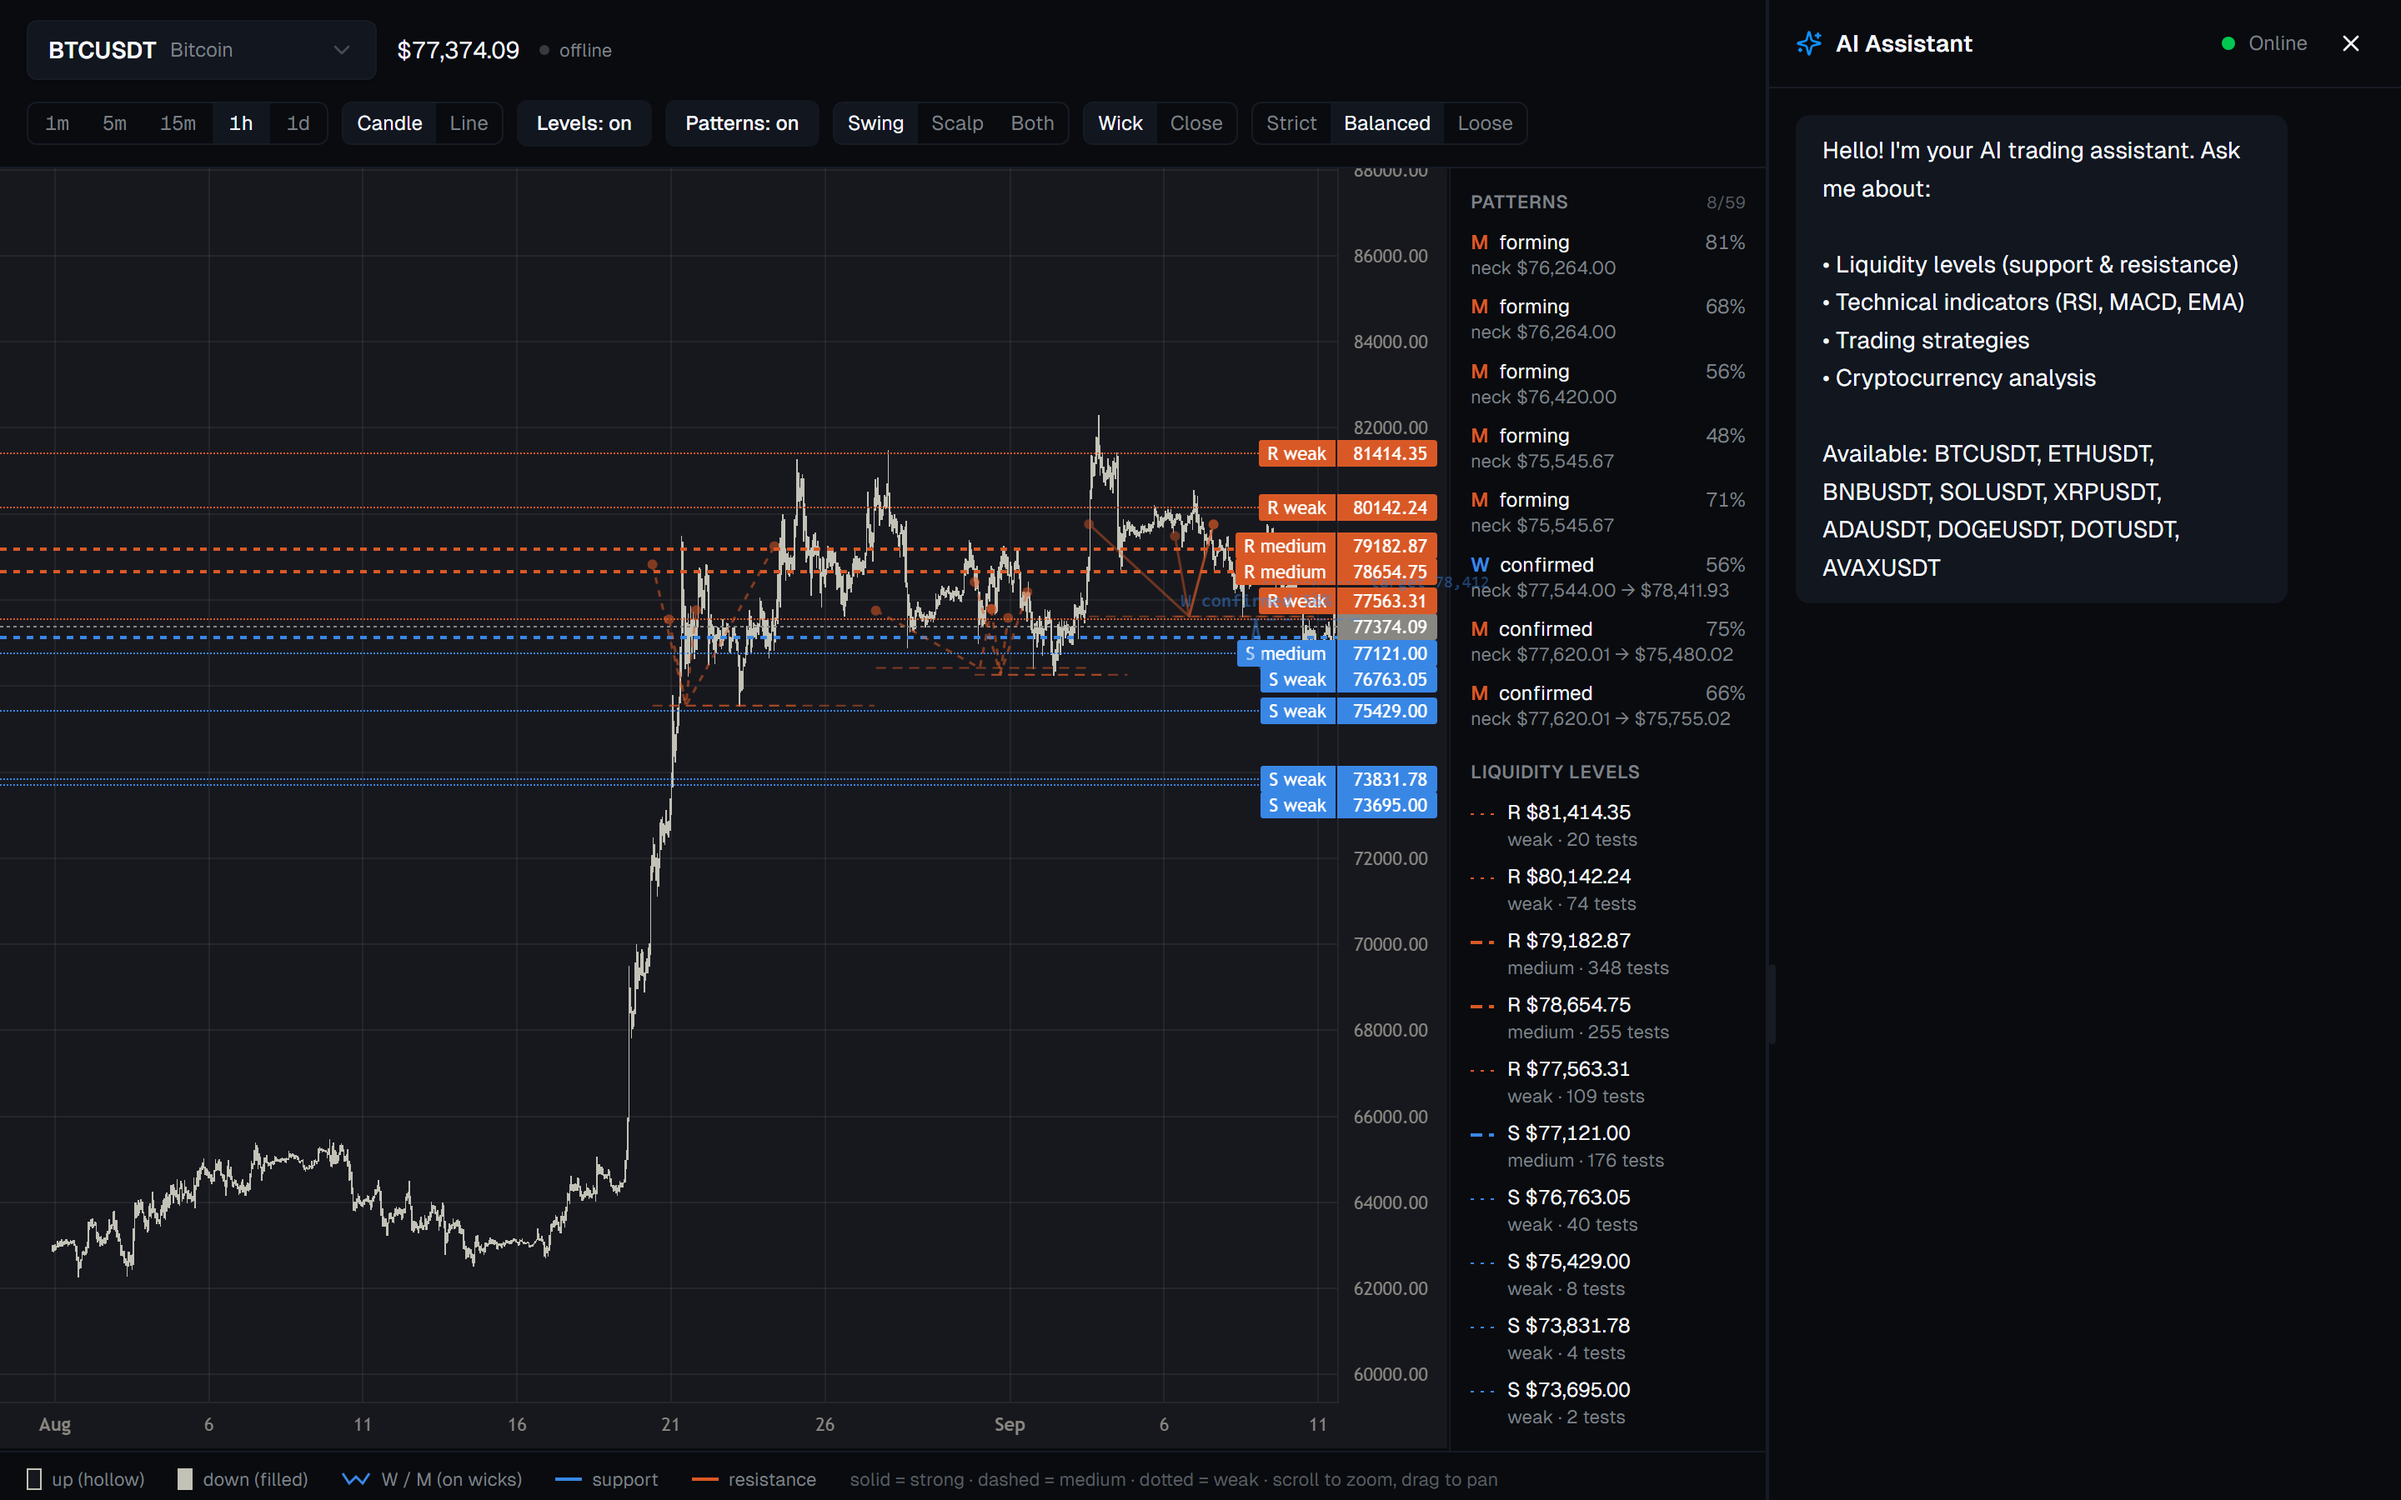
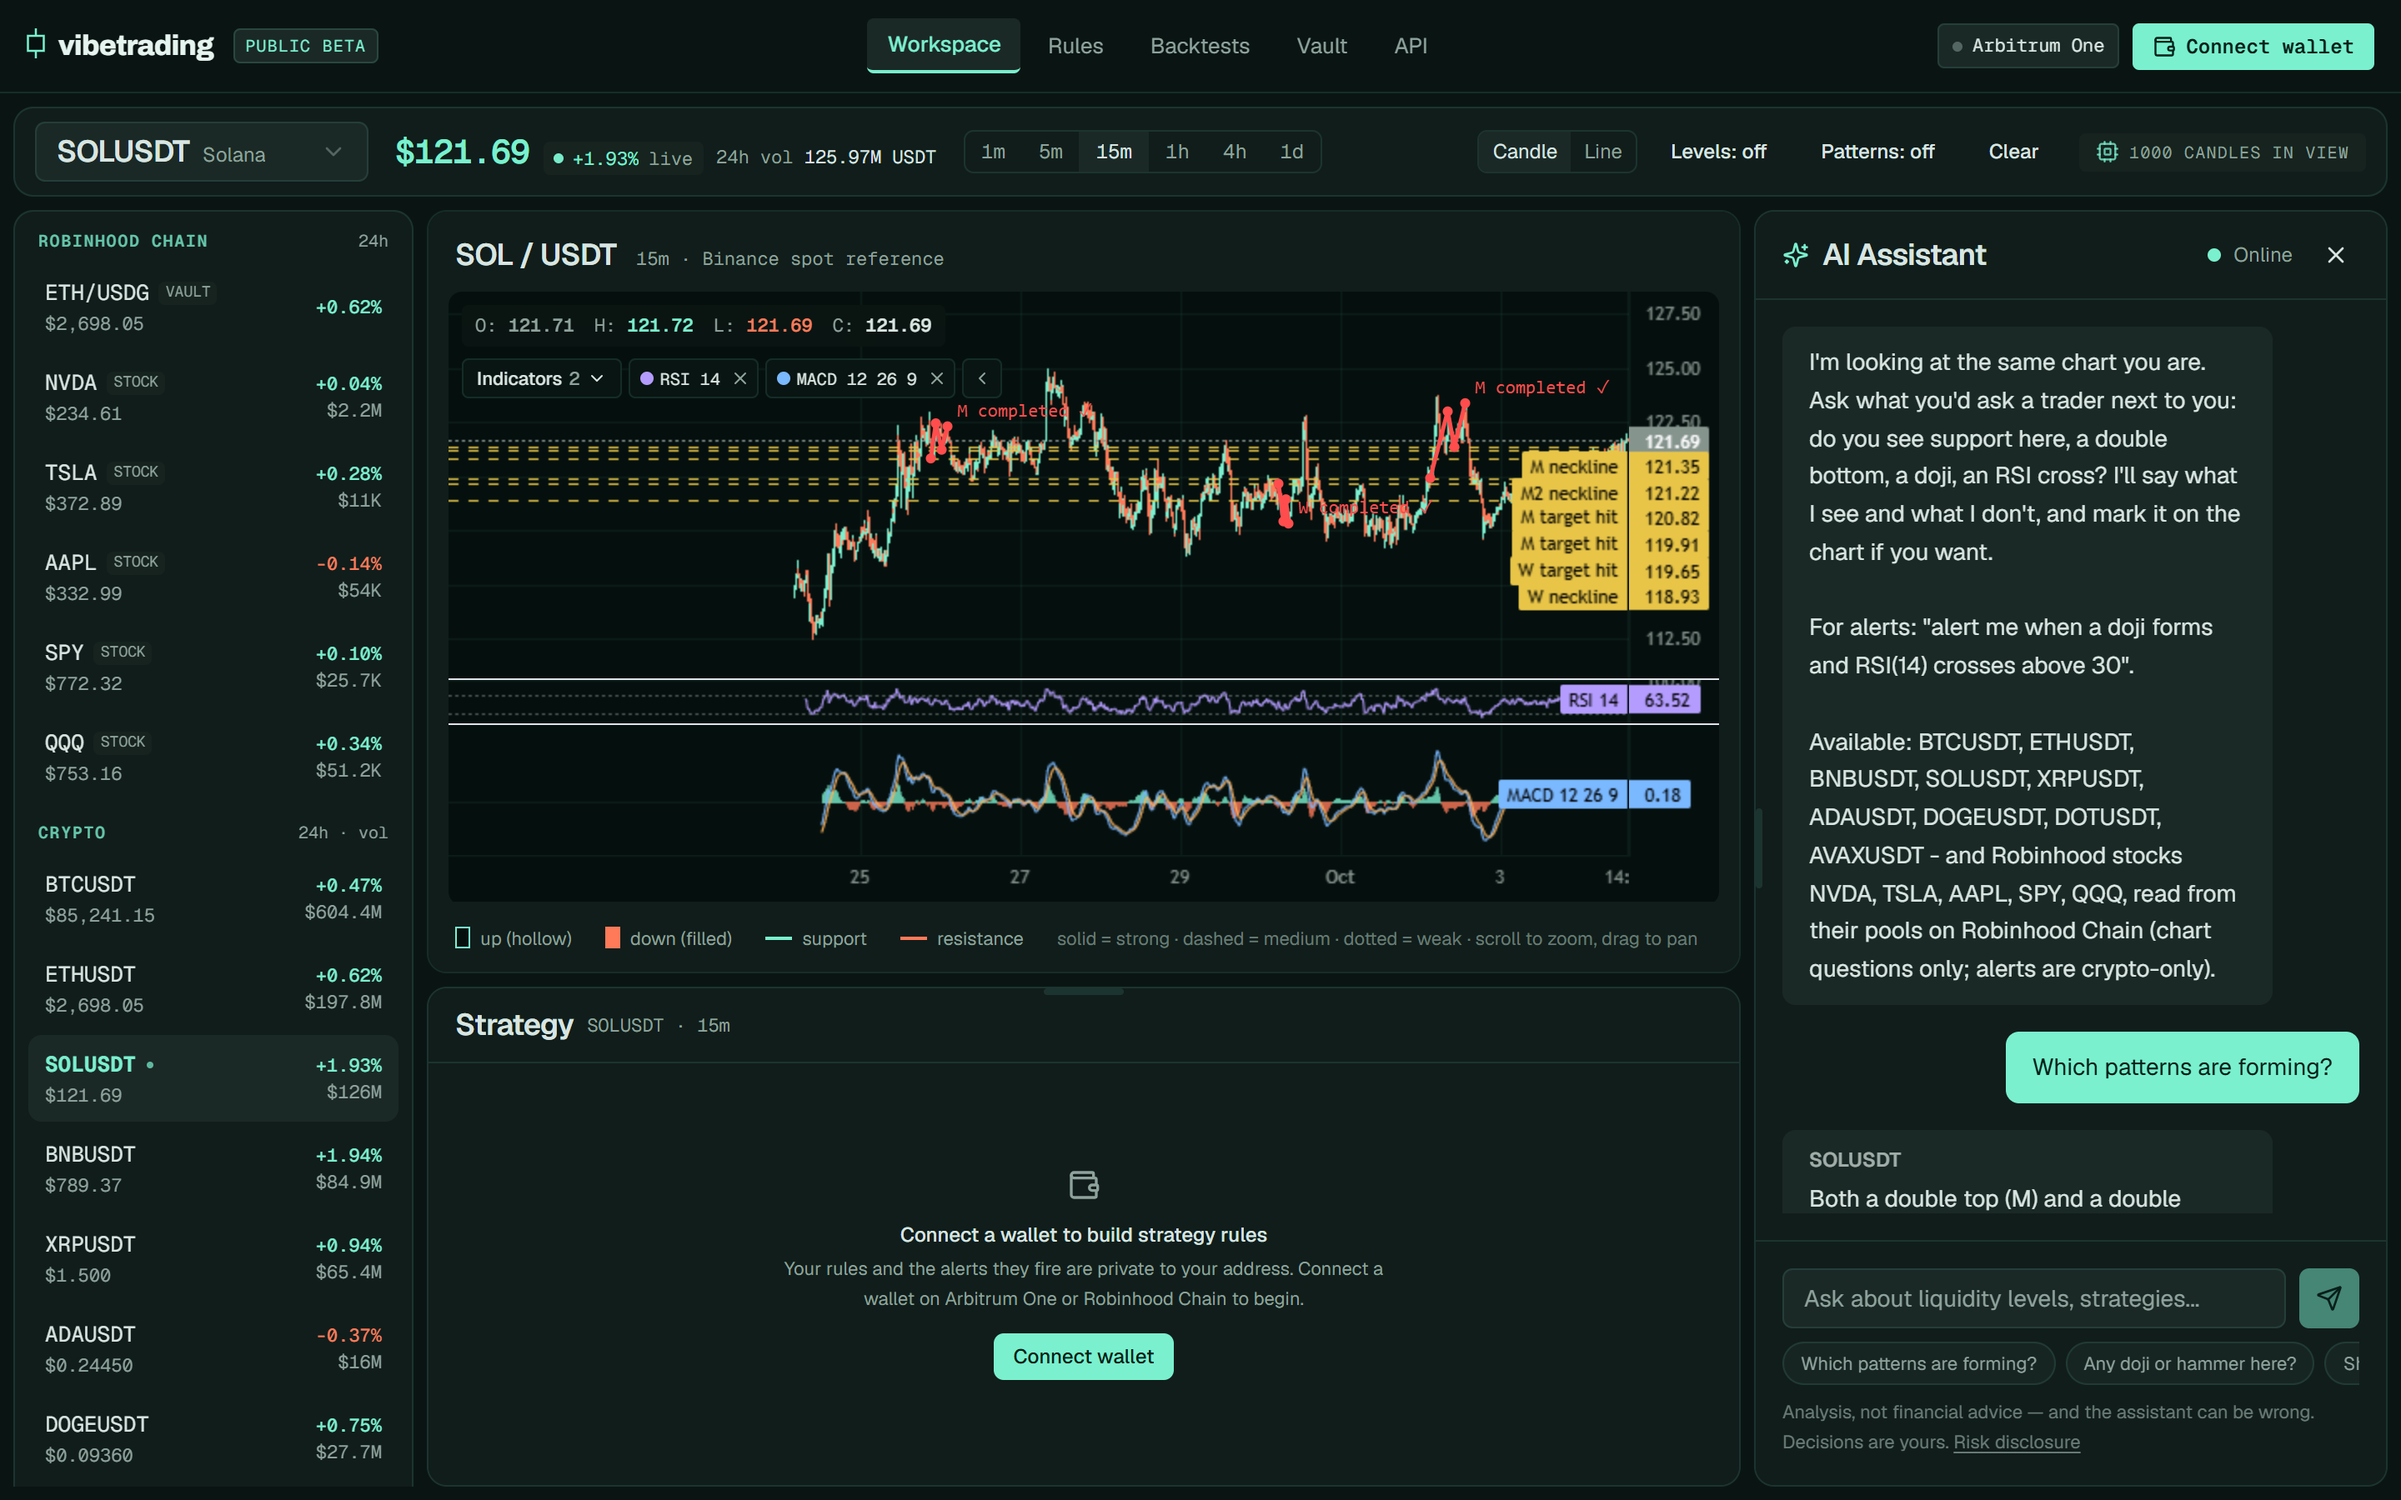
Landing page: captures of the current app
The desktop shot shows the Robinhood Chain watchlist, indicators, and the
assistant marking completed double tops; the phone shot the current layout.

diff --git a/frontend/app/page.tsx b/frontend/app/page.tsx
@@ -388,7 +388,7 @@ export default function Landing() {
                 src="/product/panel-desktop.png"
                 width={1440}
                 height={900}
-                alt="The VibeTrading panel on desktop: a BTC chart with support and resistance levels drawn, W and M patterns marked, a rail listing each level with its test count, and the assistant beside the chart."
+                alt="The VibeTrading panel on desktop: Robinhood Chain's ETH/USDG and stock tokens in the watchlist, a SOL 15m chart with RSI and MACD, and the assistant marking the double tops it found in red - each labelled completed, with the neckline and the target it hit."
                 className="block h-auto w-full"
                 priority={false}
               />
@@ -396,7 +396,7 @@ export default function Landing() {
                 className="border-t px-4 py-2.5 font-mono text-[11px]"
                 style={{ borderColor: "var(--vt-line)", color: "var(--vt-ink-faint)" }}
               >
-                Desktop · BTC 1h · levels and patterns on
+                Desktop · SOL 15m · the assistant marks completed W/M patterns
               </figcaption>
             </figure>
             <figure
@@ -407,7 +407,7 @@ export default function Landing() {
                 src="/product/panel-phone.png"
                 width={390}
                 height={844}
-                alt="The same panel on a phone: the chart fills the screen, the timeframes sit under the symbol, and a bottom bar switches between chart, analysis and assistant."
+                alt="The same panel on a phone: the chart with RSI and MACD fills the screen, the timeframes sit under the symbol, and a bottom bar switches between chart, analysis and assistant."
                 className="block h-auto w-full"
               />
               <figcaption
